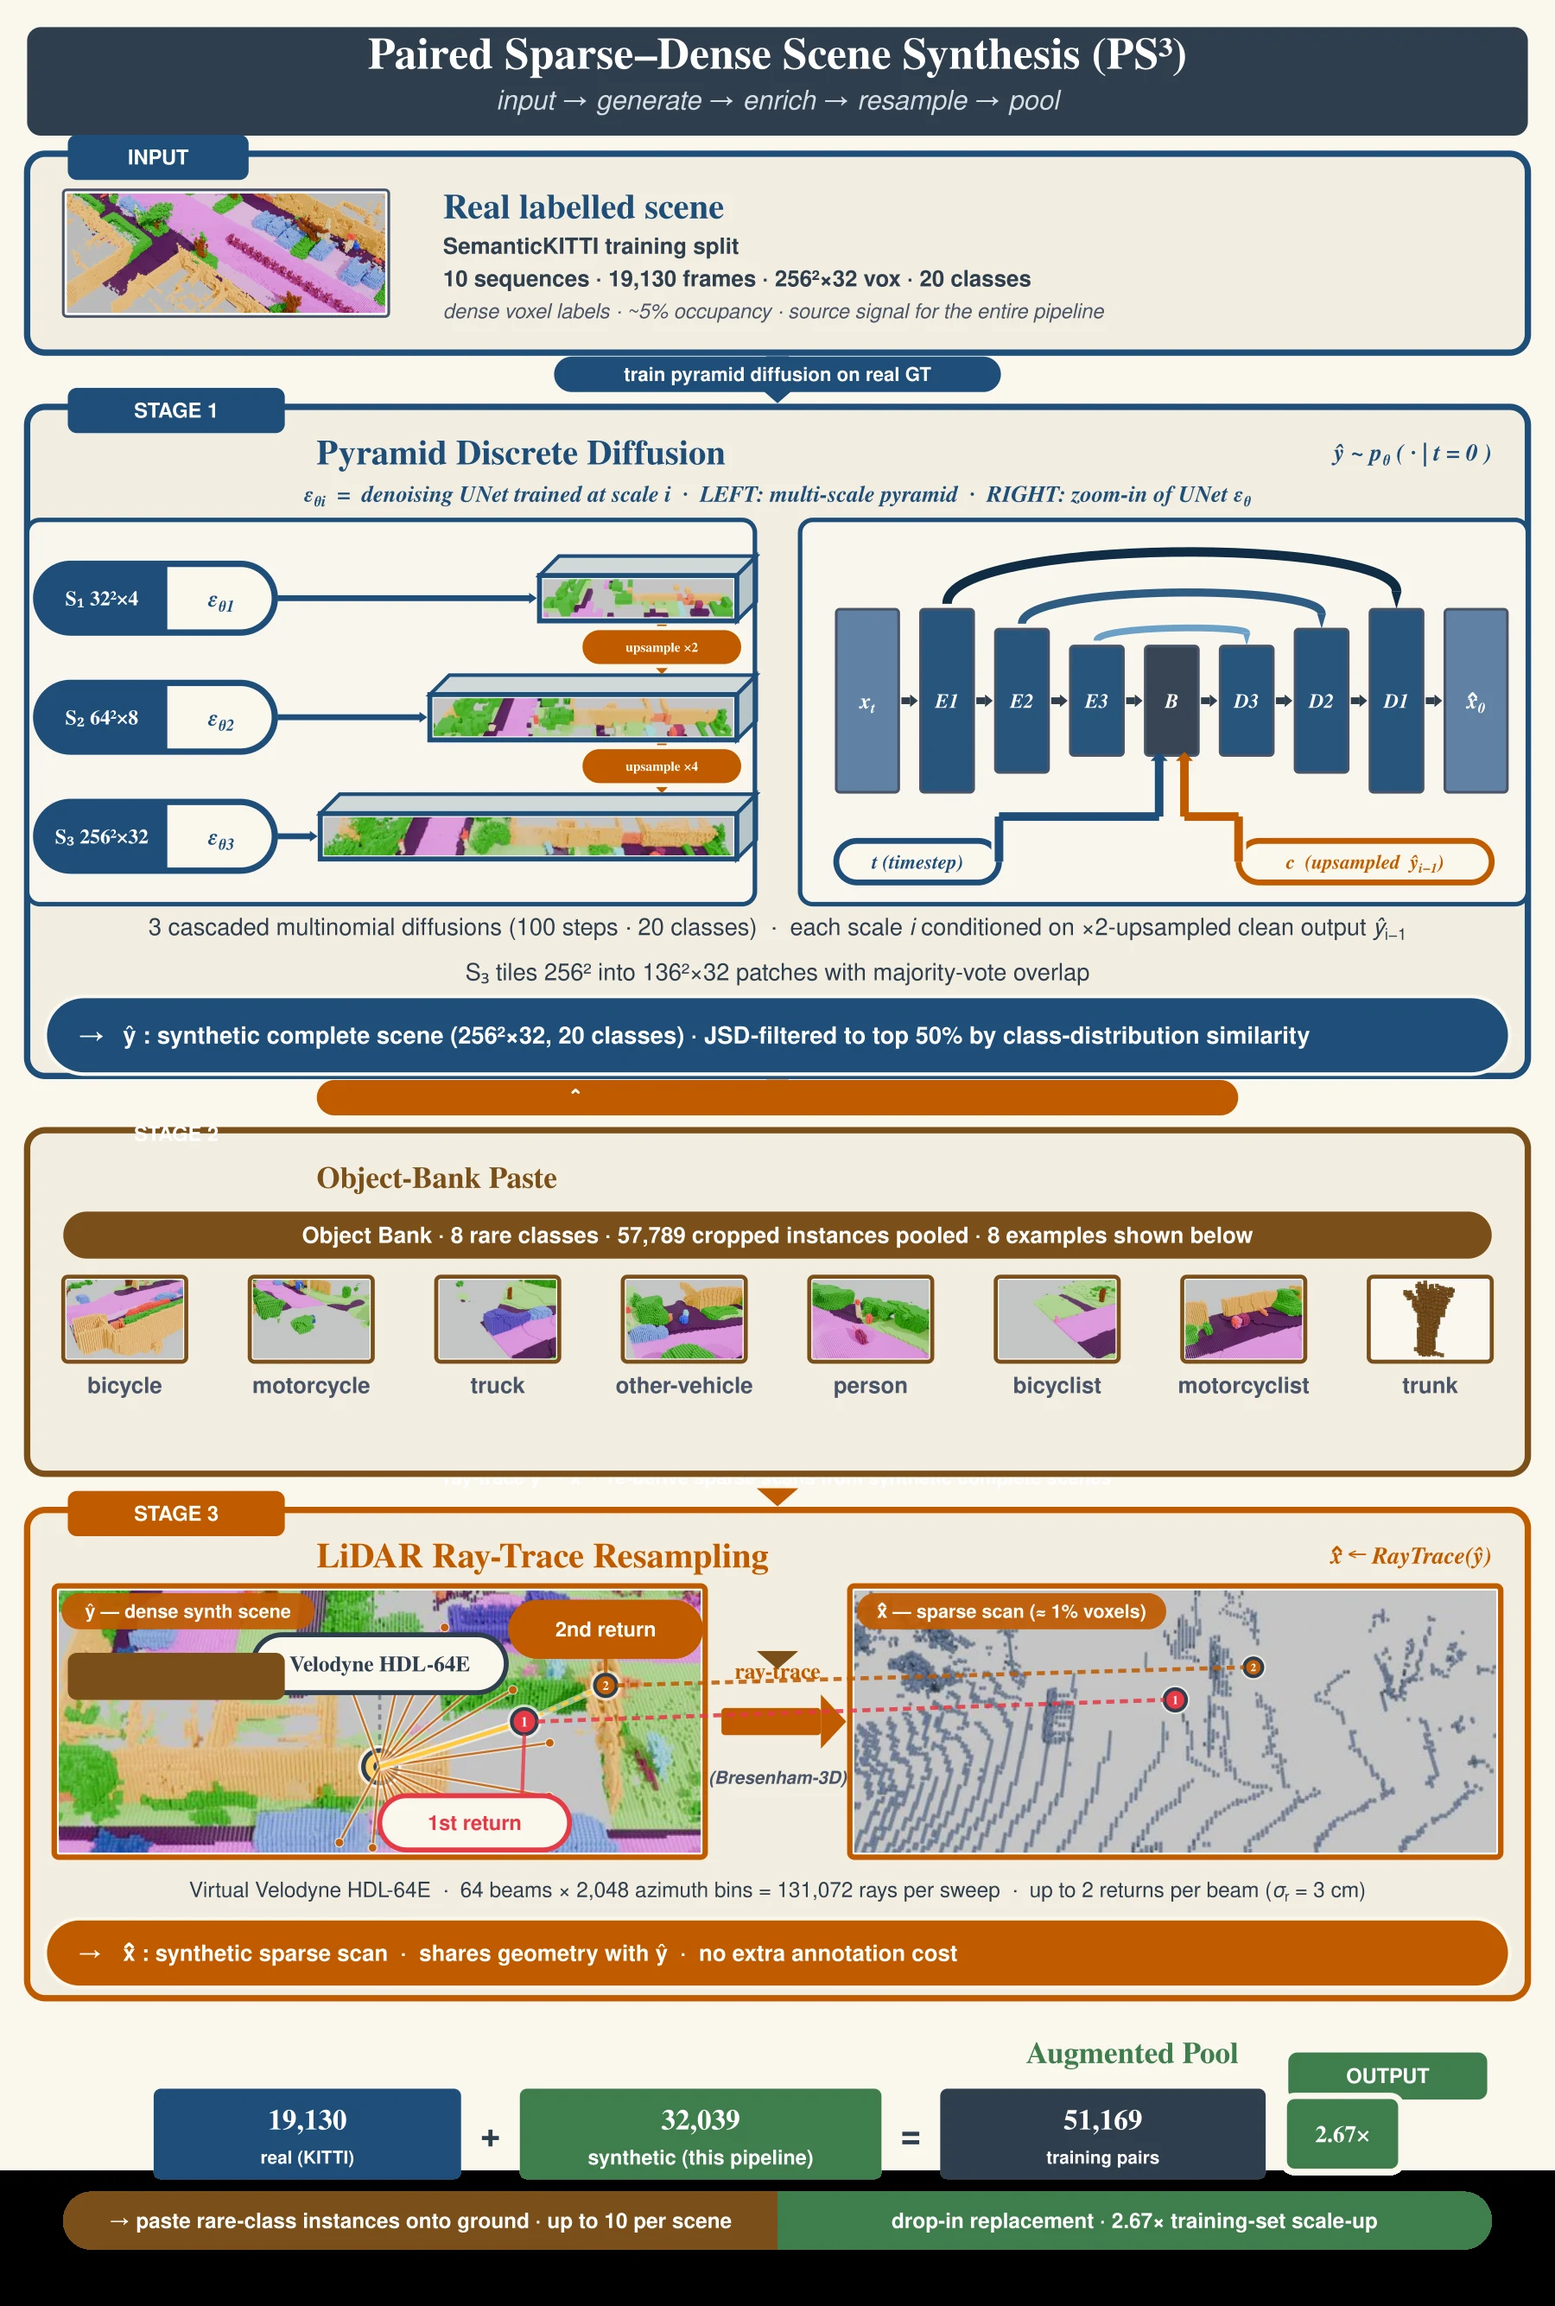
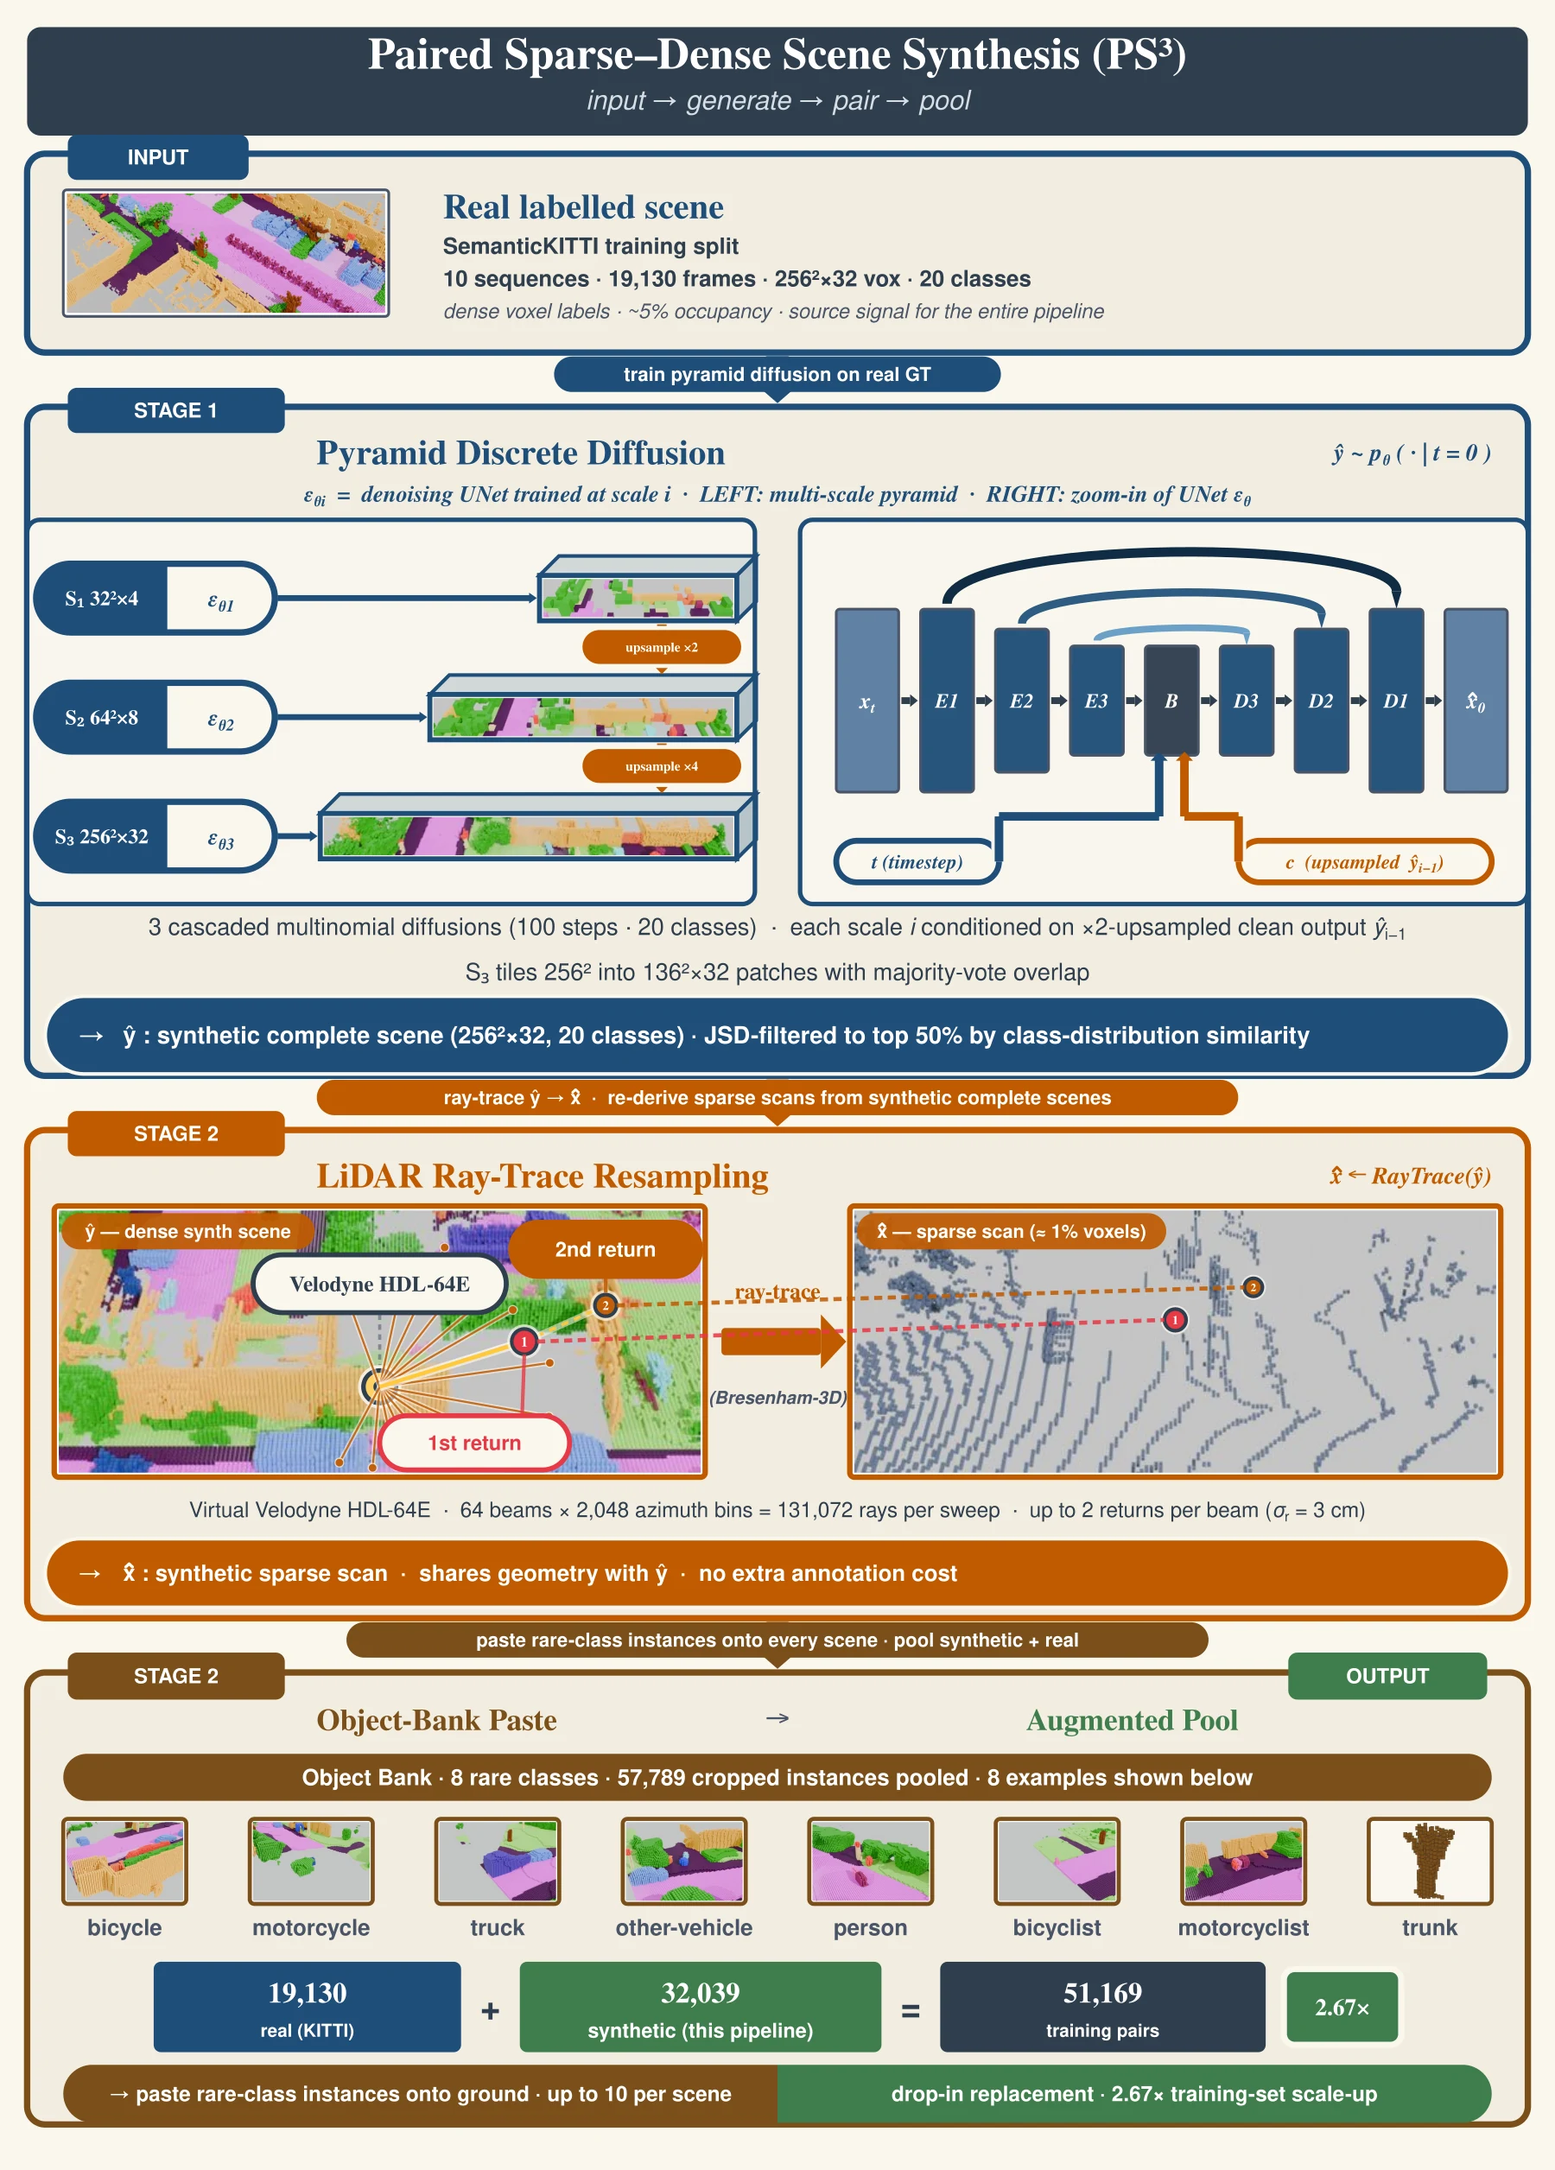
Sync DA figure to paper's order-neutral framing: regenerate fig4_da_pipeline (clean original structure, Stage 1 Pyramid + Stage 2 sensor-realistic pairing) and merge the Stage 2/3 alt-text + figcaption into one order-neutral Stage 2; fix stale 'paper Fig. 4' -> 'Fig. 2'

diff --git a/index.html b/index.html
@@ -192,7 +192,7 @@
       </picture>
     </div>
     <figcaption>
-      Two rare-class frames from SemanticKITTI val (seq 08): bicyclist (frame&nbsp;003096) and motorcyclist (frame&nbsp;001417). On the bicyclist row S<sup>2</sup>D<sup>2</sup> reaches <strong>56.9%</strong> IoU vs. SCPNet&rsquo;s 31.3% and TALoS&rsquo;s 33.0% (+894 true-positive voxels, &minus;1053 false positives); on the motorcyclist row <strong>62.4%</strong> vs. 33.0% / 30.0% with &asymp;6.6&times; fewer phantom voxels. JS3C-Net collapses on both rare classes (0.7% bicyclist, 0.0% motorcyclist). S<sup>2</sup>D<sup>2</sup> here is the test-server configuration (PS<sup>3</sup>-augmented multi-frame + <em>D</em><sub>4</sub> TTA, <em>N</em>=4). Source: paper Fig.&nbsp;4.
+      Two rare-class frames from SemanticKITTI val (seq 08): bicyclist (frame&nbsp;003096) and motorcyclist (frame&nbsp;001417). On the bicyclist row S<sup>2</sup>D<sup>2</sup> reaches <strong>56.9%</strong> IoU vs. SCPNet&rsquo;s 31.3% and TALoS&rsquo;s 33.0% (+894 true-positive voxels, &minus;1053 false positives); on the motorcyclist row <strong>62.4%</strong> vs. 33.0% / 30.0% with &asymp;6.6&times; fewer phantom voxels. JS3C-Net collapses on both rare classes (0.7% bicyclist, 0.0% motorcyclist). S<sup>2</sup>D<sup>2</sup> here is the test-server configuration (PS<sup>3</sup>-augmented multi-frame + <em>D</em><sub>4</sub> TTA, <em>N</em>=4). Source: paper Fig.&nbsp;2.
     </figcaption>
   </figure>
 </section>
@@ -290,15 +290,14 @@
       <picture>
         <source type="image/webp" srcset="assets/figures/fig4_da_pipeline.webp" />
         <img src="assets/figures/fig4_da_pipeline.png"
-             alt="Three-stage offline data-augmentation pipeline. Stage 1 — Pyramid Discrete Diffusion: three cascaded multinomial diffusions at 32²×4 → 64²×8 → 256²×32, each conditioning on the upsampled output of the previous scale; the S₃ stage tiles into overlapping 136²×32 patches merged by majority vote, then a Jensen–Shannon divergence filter keeps the top half by class-distribution similarity to real scenes. Stage 2 — Object Bank Paste: 57,789 rare-class instances across 8 safety-critical classes (bicycle, motorcycle, truck, other-vehicle, person, bicyclist, motorcyclist, trunk) are pasted onto ground-level voxels of every synthetic scene. Stage 3 — LiDAR Ray-Trace Resampling: a simulated Velodyne HDL-64E (64 beams × 2,048 azimuth bins = 131,072 rays per sweep, up to 2 returns per beam, σ_r = 3 cm range noise) traverses each enriched synthetic complete scene via Bresenham-3D to produce the matching sparse input; the highlighted beam shows the first and second returns. The final synthetic pool is 19,130 real + 32,039 synthetic = 51,169 training pairs, a 2.67× pool expansion."
+             alt="Two-stage offline data-augmentation pipeline. Stage 1 — Pyramid Discrete Diffusion: three cascaded multinomial diffusions at 32²×4 → 64²×8 → 256²×32, each conditioning on the upsampled output of the previous scale; the S₃ stage tiles into overlapping 136²×32 patches merged by majority vote, then a Jensen–Shannon divergence filter keeps the top half by class-distribution similarity to real scenes. Stage 2 — Sensor-realistic pairing: a 57,789-instance rare-class object bank (8 safety-critical classes: bicycle, motorcycle, truck, other-vehicle, person, bicyclist, motorcyclist, trunk; pasted on ground-level voxels) and a simulated Velodyne HDL-64E ray-tracer (64 beams × 2,048 azimuth bins = 131,072 rays per sweep, up to 2 returns per beam, σ_r = 3 cm range noise; Bresenham-3D) together turn each synthetic complete scene into the pooled (sparse, dense) training pairs; the highlighted beam shows the first and second returns. The final synthetic pool is 19,130 real + 32,039 synthetic = 51,169 training pairs, a 2.67× pool expansion."
              loading="lazy" width="2000" height="2791" />
       </picture>
     </div>
     <figcaption>
       <strong>Stage&nbsp;1 &mdash; Pyramid Discrete Diffusion.</strong> Three cascaded multinomial diffusions at 32<sup>2</sup>&times;4 &rarr; 64<sup>2</sup>&times;8 &rarr; 256<sup>2</sup>&times;32, each conditioned on the upsampled prior scale; the 256<sup>2</sup>&times;32 stage tiles into 136<sup>2</sup>&times;32 patches merged by majority vote, then a Jensen&ndash;Shannon filter keeps the top half by class-distribution similarity to real scenes.
-      <strong>Stage&nbsp;2 &mdash; Object Bank Paste.</strong> <strong>57,789</strong> rare-class instances across 8 safety-critical classes pasted onto ground-level voxels.
-      <strong>Stage&nbsp;3 &mdash; LiDAR Ray-Trace Resampling.</strong> A simulated Velodyne HDL-64E (64&thinsp;&times;&thinsp;2,048 = <strong>131,072</strong> rays per sweep, up to 2 returns per beam, &sigma;<sub><em>r</em></sub>=3&thinsp;cm) traverses each enriched synthetic scene via Bresenham-3D to produce a matching sparse input.
-      The final pool is <strong>19,130 + 32,039 = 51,169</strong> pairs (<strong>2.67&times;</strong>). Source: paper Fig.&nbsp;4.
+      <strong>Stage&nbsp;2 &mdash; Sensor-realistic pairing.</strong> A <strong>57,789</strong>-instance rare-class object bank (8 safety-critical classes, pasted on ground-level voxels) and a simulated Velodyne HDL-64E ray-tracer (64&thinsp;&times;&thinsp;2,048 = <strong>131,072</strong> rays per sweep, up to 2 returns per beam, &sigma;<sub><em>r</em></sub>=3&thinsp;cm, Bresenham-3D) together turn each synthetic complete scene into the pooled (sparse, dense) pairs.
+      The final pool is <strong>19,130 + 32,039 = 51,169</strong> pairs (<strong>2.67&times;</strong>). Source: paper Fig.&nbsp;2.
     </figcaption>
   </figure>
 
